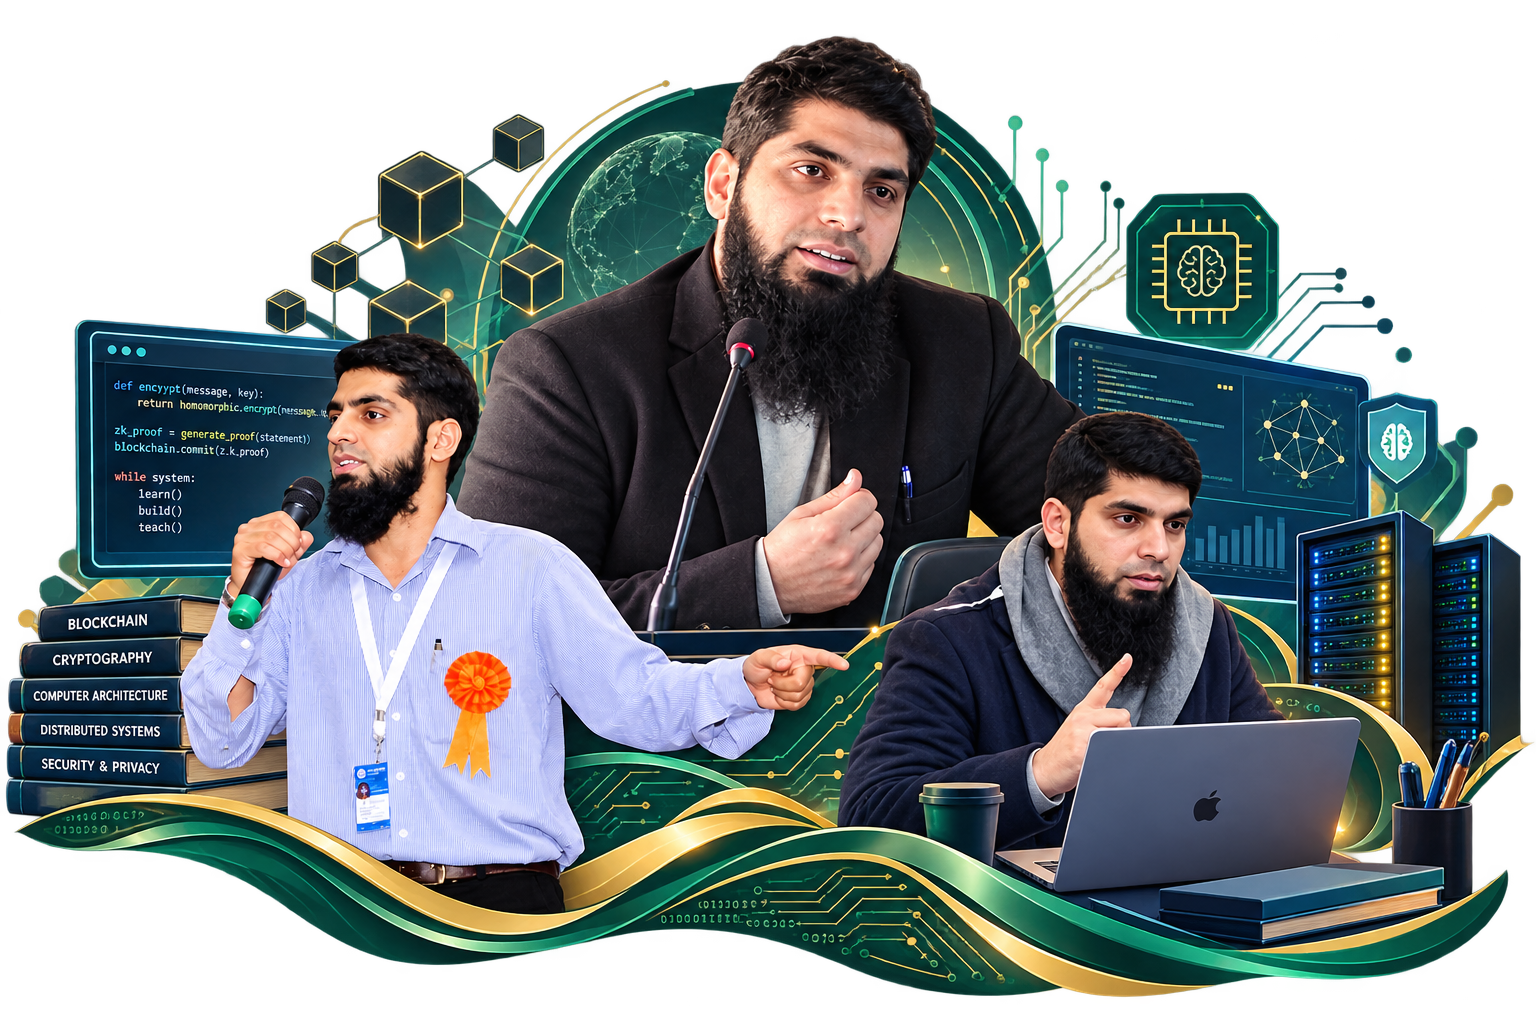
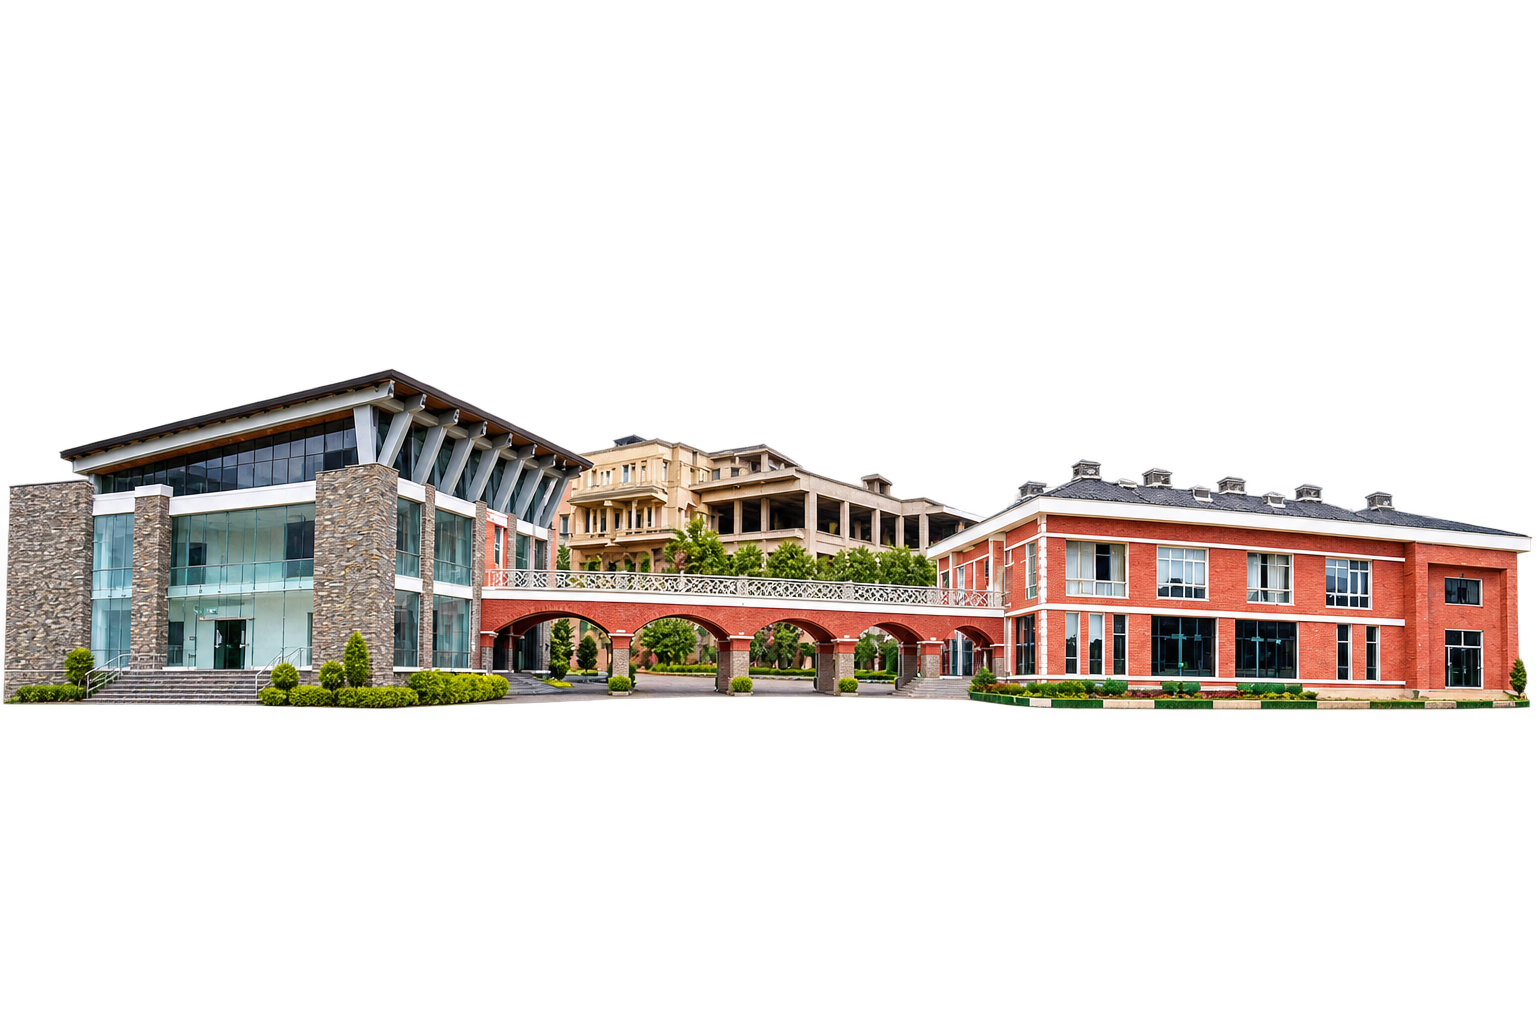
feat(web): align course hero with portfolio background

diff --git a/docs/assets/site.css b/docs/assets/site.css
@@ -357,10 +357,10 @@ code {
 .hero.hero-photo--cs401 {
   background-image:
     radial-gradient(ellipse 62% 58% at 50% 58%, rgba(8, 18, 4, 0.42) 0%, transparent 76%),
-    linear-gradient(180deg, rgba(8, 18, 4, 0.35) 0%, rgba(8, 18, 4, 0.72) 100%),
-    radial-gradient(circle at 18% 22%, rgba(164, 228, 134, 0.16), transparent 46%),
-    radial-gradient(circle at 84% 78%, rgba(212, 164, 100, 0.14), transparent 50%),
-    url("../assets/Images/courses/cs401-hero.jpg");
+    linear-gradient(180deg, rgba(8, 18, 4, 0.32) 0%, rgba(8, 18, 4, 0.70) 100%),
+    radial-gradient(circle at 18% 22%, rgba(164, 228, 134, 0.14), transparent 46%),
+    radial-gradient(circle at 84% 78%, rgba(212, 164, 100, 0.12), transparent 50%),
+    url("../public/MyBackground.png");
   background-size: cover;
   background-position: center;
 }
